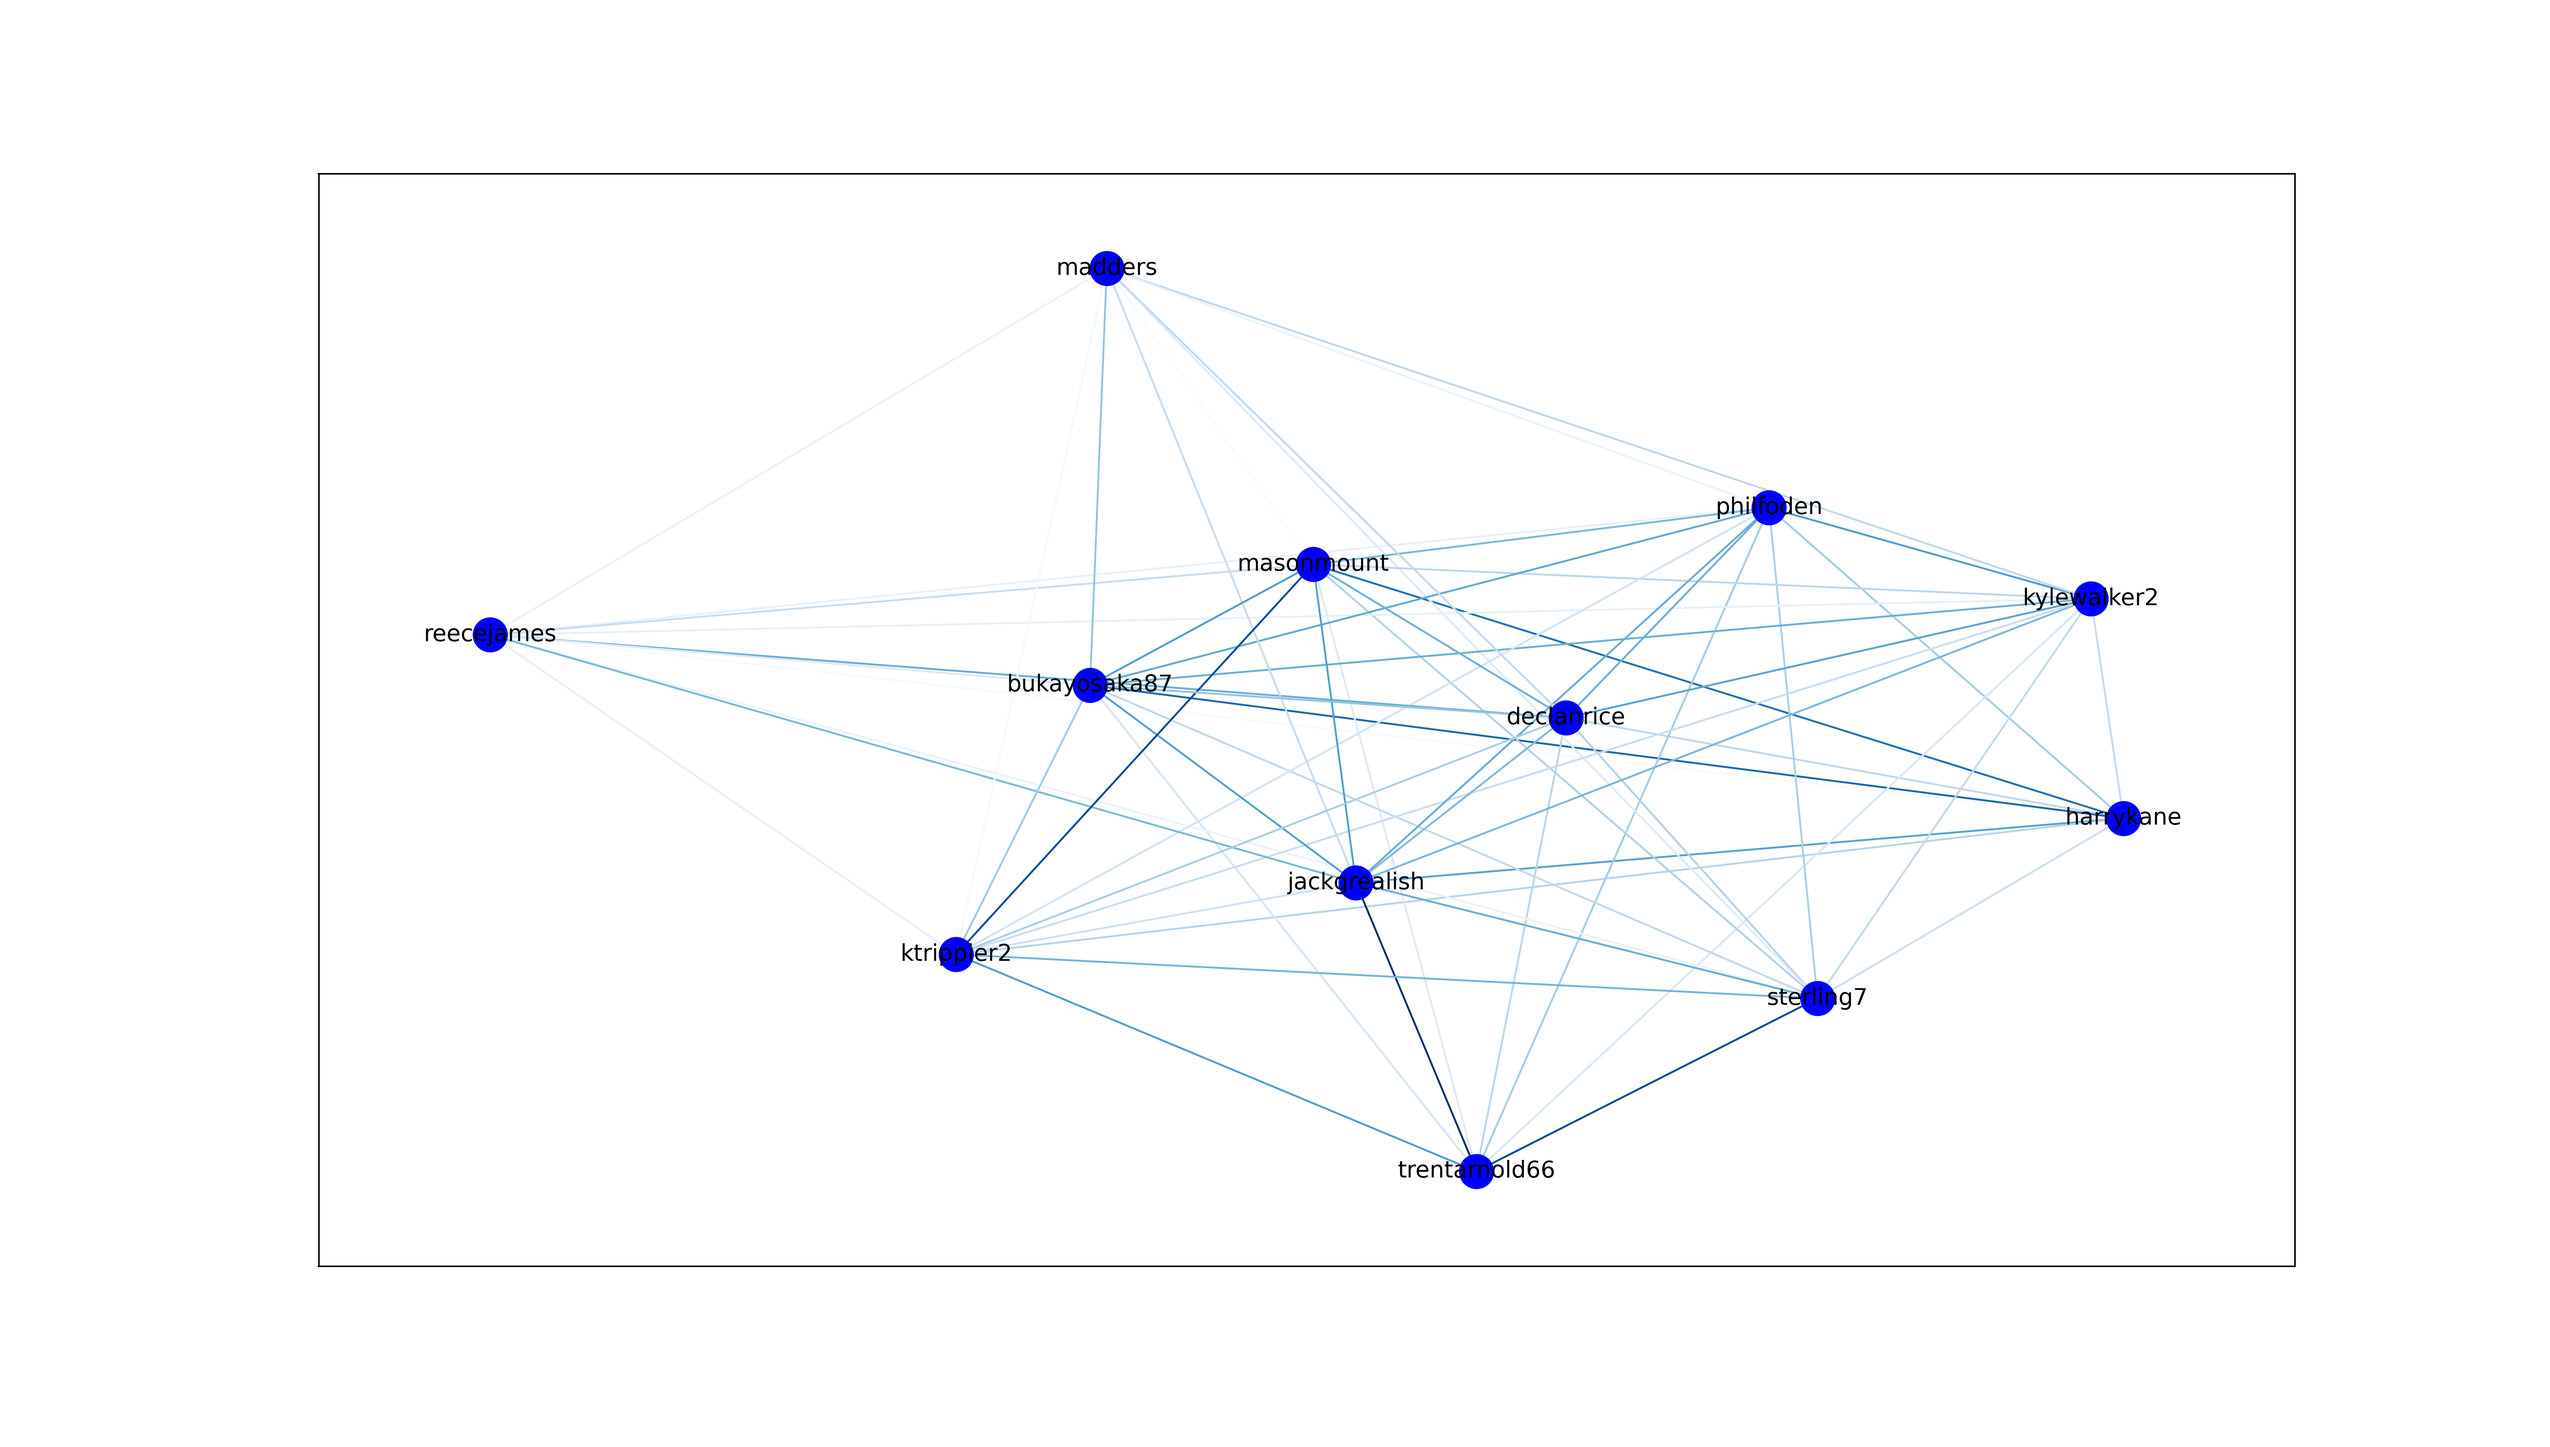
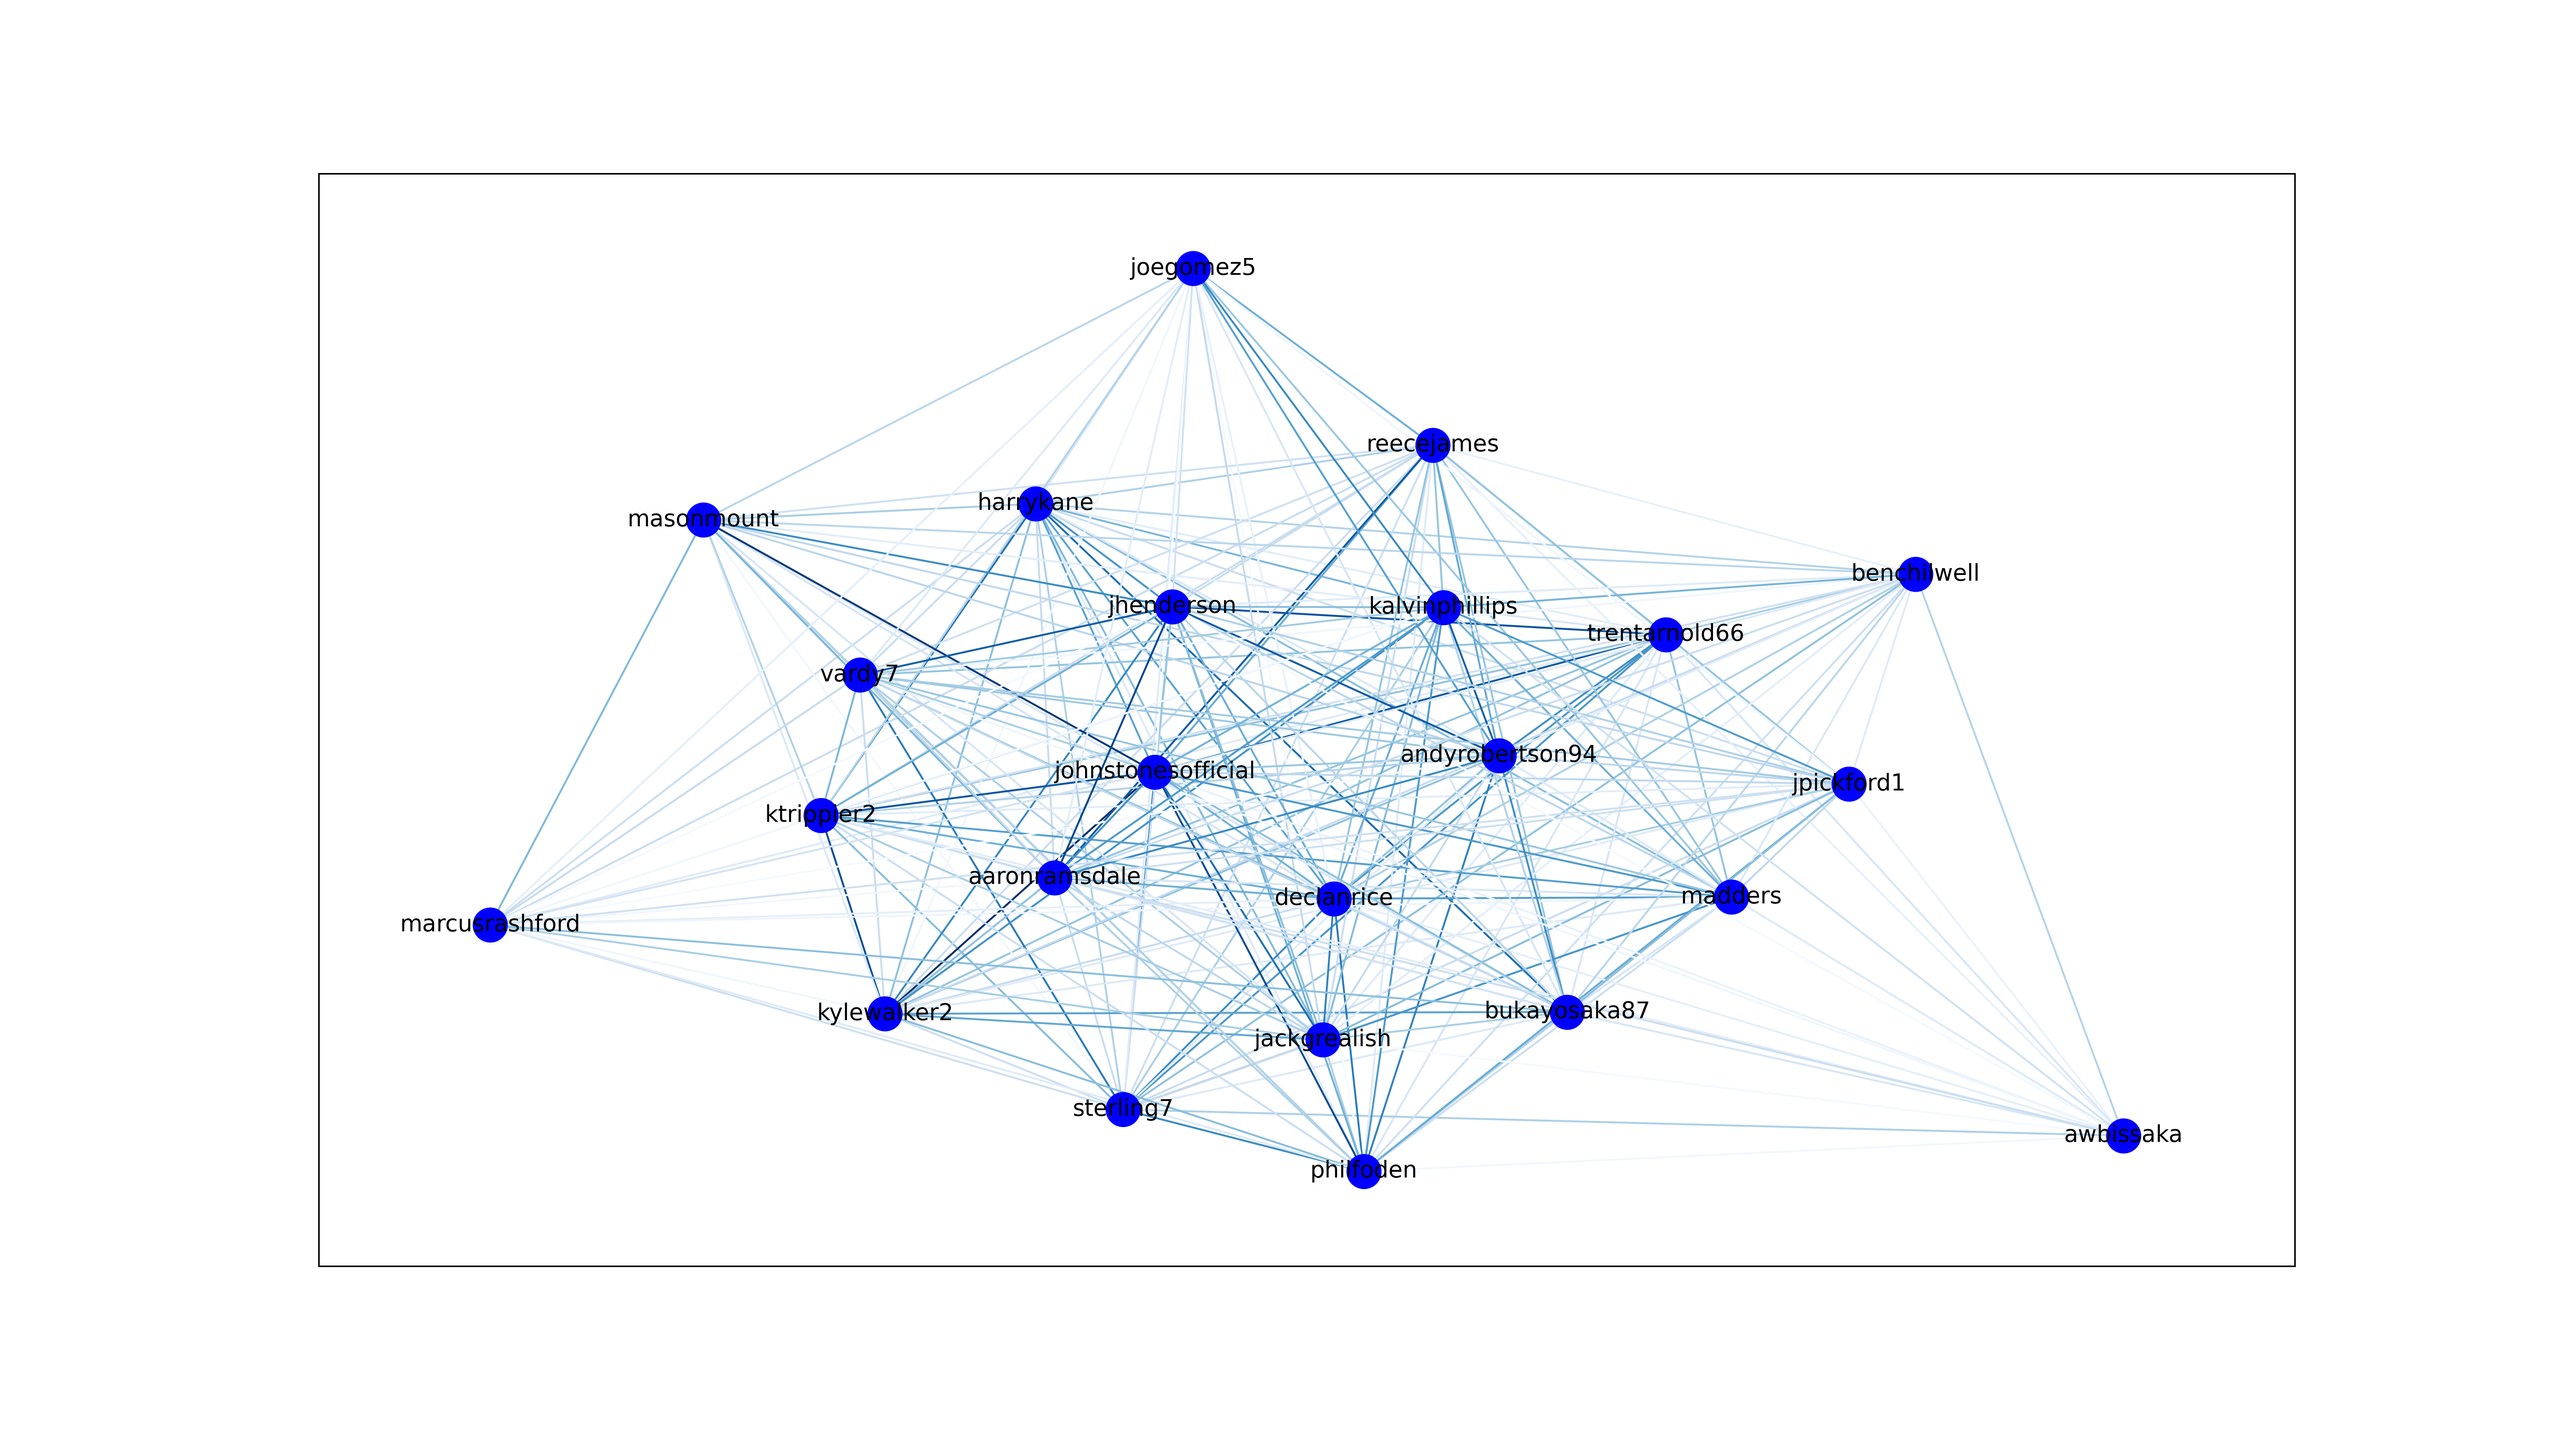
minor tweaks

diff --git a/main.py b/main.py
@@ -1,7 +1,7 @@
 #%%
 '''
-get_insta_matrix  -> get strength of connections using insta
-get_sofifa_matrix -> get strength of connections using sofia
+get_insta_matrix  -> get connections using insta
+get_sofifa_matrix -> get connections using sofia
 plots graphs
 calculate similarity
 '''
@@ -9,7 +9,7 @@ import utils as utils
 from tass_nlp import TassNlp
 from tass_sofifa import TassSofia
 
-import torch
+# import torch
 import numpy as np
 import pandas as pd
 import networkx as nx
@@ -17,32 +17,43 @@ import matplotlib as mpl
 import matplotlib.pyplot as plt
 
 
-from datetime import datetime
+# from datetime import datetime
 
-from keybert import KeyBERT
-from nltk.stem.wordnet import WordNetLemmatizer
-from sentence_transformers import SentenceTransformer
-from keyphrase_vectorizers import KeyphraseCountVectorizer
+# from keybert import KeyBERT
+# from nltk.stem.wordnet import WordNetLemmatizer
+# from sentence_transformers import SentenceTransformer
+# from keyphrase_vectorizers import KeyphraseCountVectorizer
 #%% Insta
-
 
 profiles = ['harrykane', 'trentarnold66', 'sterling7', 'kylewalker2',
             'philfoden', 'reecejames', 'jackgrealish', 'ktrippier2',
-            'declanrice', 'madders', 'bukayosaka87', 'masonmount']   
-def get_insta_matrix(profiles, threshold = 0.5):
+            'declanrice', 'madders', 'bukayosaka87', 'masonmount',
+            'andyrobertson94', 'johnstonesofficial', 'vardy7', 'aaronramsdale',
+            'benchilwell', 'jpickford1', 'jhenderson', 'joegomez5',
+            'kalvinphillips', 'marcusrashford', 'awbissaka']   
+
+names = ['H. Kane', 'T. Alexander-Arnold', 'R. Sterling', 'K. Walker',
+         'P. Foden', 'R. James', 'J. Grealish', 'K. Trippier',
+         'D. Rice', 'J. Maddison', 'B. Saka', 'M. Mount',
+         'A. Robertson', 'J. Stones', 'J. Vardy', 'A. Ramsdale',
+         'B. Chilwell', 'J. Pickford', 'J. Henderson', 'J. Gomez',
+         'K. Phillips', 'M. Rashford', 'A. Wan-Bissaka']
+
+def get_insta_matrix(profiles, threshold_kw = 0.5, threshold_cos = 0.5):
 
 
     tass_nlp = TassNlp()
     
     all_docs = tass_nlp.read_profiles(profiles)
-    all_kw = tass_nlp.find_all_keywords(profiles, all_docs, threshold)
+    all_kw = tass_nlp.find_all_keywords(profiles, all_docs, threshold_kw)
     all_en = tass_nlp.encode_keywords(profiles, all_kw)
 
     df_list = []
     for i in profiles:
         lst = []
         for j in profiles:        
-            similarity = utils.get_cos_similarity(all_en[i], all_en[j])
+            similarity = utils.get_cos_similarity(all_en[i], all_en[j],
+                                                  threshold = threshold_cos)
             lst.append(similarity)
             # print(f"{i} {j} similarity {similarity}")
         df_list.append(lst)
@@ -64,9 +75,7 @@ def get_insta_matrix(profiles, threshold = 0.5):
 idf = get_insta_matrix(profiles)
 
 #%% Sofifa
-names = ['H. Kane', 'T. Alexander-Arnold', 'R. Sterling', 'K. Walker',
-         'P. Foden', 'R. James', 'J. Grealish', 'K. Trippier',
-         'D. Rice', 'J. Maddison', 'B. Saka', 'M. Mount']
+
 
 
 def get_sofifa_matrix(names, profiles):
@@ -152,7 +161,7 @@ def jaccard_similarity(g, h):
     i = set(g).intersection(h)
     return round(len(i) / (len(g) + len(h) - len(i)),3)
 
-jaccard_similarity(iG.edges(), sG.edges())
+print(f"jaccard_similarity {jaccard_similarity(iG.edges(), sG.edges())}")
 
 
 GH = nx.compose(iG,sG)

diff --git a/tass_instaloader.py b/tass_instaloader.py
@@ -1,20 +1,19 @@
 import datetime
 from instaloader import Instaloader, Profile, TopSearchResults
 
-
-
 import time as time
 import random as random
 
 class TassInstaloader:
     
-    def __init__(self, user: str, password: str):
+    def __init__(self, user: str = None, password: str = None):
         self.user = user
         self.password = password
         
         # Login
         self.L = Instaloader()
-        self.L.login(self.user, self.password)
+        if(self.user is not None and self.password is not None):
+            self.L.login(self.user, self.password)
     
     def get_profile(self, profile_name: str) -> Profile:
         '''Get profile by profile name'''
@@ -51,7 +50,7 @@ class TassInstaloader:
                     continue
             else:
                 k += 1
-                time.sleep(random.randint(10,15))
+                time.sleep(random.randint(30, 45))
                 self.L.download_post(post, target = profile.username)
                 # k = 0  # set k to 0
                 if k == k_max:
@@ -63,7 +62,7 @@ class TassInstaloader:
                                reverse=True)
         
         for post in posts_sorted_by_likes[0:X]:
-            time.sleep(random.randint(9, 18))
+            time.sleep(random.randint(90, 180))
             self.L.download_post(post, target = profile.username)
 
 
@@ -72,15 +71,19 @@ class TassInstaloader:
         self.download_post_from_time_range(profile, posts, since, until)
 
 def main():
-    tass_instaloader = TassInstaloader('user', 'password')
-    
+    tass_instaloader = TassInstaloader()
+    '''
+
+    '''
     profiles = ['harrykane', 'trentarnold66', 'sterling7', 'kylewalker2',
                 'philfoden', 'reecejames', 'jackgrealish', 'ktrippier2',
-                'declanrice', 'madders', 'bukayosaka87', 'masonmount']
-    
+                'declanrice', 'madders', 'bukayosaka87', 'masonmount',
+                'andyrobertson94', 'johnstonesofficial', 'vardy7', 'aaronramsdale',
+                'benchilwell', 'jpickford1', 'jhenderson', 'joegomez5',
+                'kalvinphillips', 'marcusrashford', 'awbissaka']
     
     for person_name in profiles:
-        first, second = random.randrange(9, 18), random.randrange(9, 18)
+        first, second = random.randrange(90, 180), random.randrange(90, 180)
         print(f"{person_name} first wait {first}")
         
         profile = tass_instaloader.get_profile(person_name)
@@ -88,16 +91,18 @@ def main():
         posts = profile.get_posts()
     
         
-        # download posts from 2019-01-01 to 2019-01-31
+        # download posts from time range
         tass_instaloader.download_post_from_time_range(profile, posts,
                                                         datetime.datetime(2020, 11, 1),
-                                                        datetime.datetime(2023, 1, 1), k_max = 15)
+                                                        datetime.datetime(2022, 9, 1),
+                                                        k_max = 20)
         print(f"{person_name} second {second}")
         # tass_instaloader.download_X_popular(profile, 20)
         
         time.sleep(second)
 
 
-
+# if __name__ == '__main__':
+#     main()
 
 

diff --git a/utils.py b/utils.py
@@ -105,7 +105,7 @@ def remove_sim_kw(documents: list[str], threshold:float) -> list[str]:
     max_idx = np.argmax(pairwise_similarity, axis=1)
     
     
-    pairwise_similarity
+    # pairwise_similarity
     
     for idx, row in enumerate(pairwise_similarity):
         if(pairwise_similarity[idx][max_idx[idx]] >= threshold):
@@ -117,5 +117,8 @@ def get_cos_similarity(nd1: np.ndarray, nd2: np.ndarray,
                                              threshold = 0.5) -> np.float32:
     
     cos_ndarray = util.pytorch_cos_sim(nd1, nd2).numpy()
+    cos_ndarray = cos_ndarray.flatten()
     
-    return np.sum(cos_ndarray[cos_ndarray>threshold])
+    N_most = np.sort(cos_ndarray)[::-1][:10]
+    
+    return np.sum(N_most[N_most>threshold])

diff --git a/tass_nlp.py b/tass_nlp.py
@@ -1,12 +1,12 @@
 #%%
 import utils as utils
 
-import torch
-import numpy as np
-import pandas as pd
-import networkx as nx
-import matplotlib as mpl
-import matplotlib.pyplot as plt
+# import torch
+# import numpy as np
+# import pandas as pd
+# import networkx as nx
+# import matplotlib as mpl
+# import matplotlib.pyplot as plt
 
 
 from datetime import datetime
@@ -71,6 +71,6 @@ def main():
     all_kw = tass_nlp.find_all_keywords(profiles, all_docs, threshold=0.5)
     all_en = tass_nlp.encode_keywords(profiles, all_kw)
     
-if __name__ == '__main__':
-    main()
+# if __name__ == '__main__':
+#     main()
     

diff --git a/tass_sofifa.py b/tass_sofifa.py
@@ -28,5 +28,5 @@ def main():
     for name in names:
       footballers[name] = so.get_footballer_atr(name).values.flatten()
       
-if __name__ == '__main__':
-    main()
+# if __name__ == '__main__':
+#     main()
